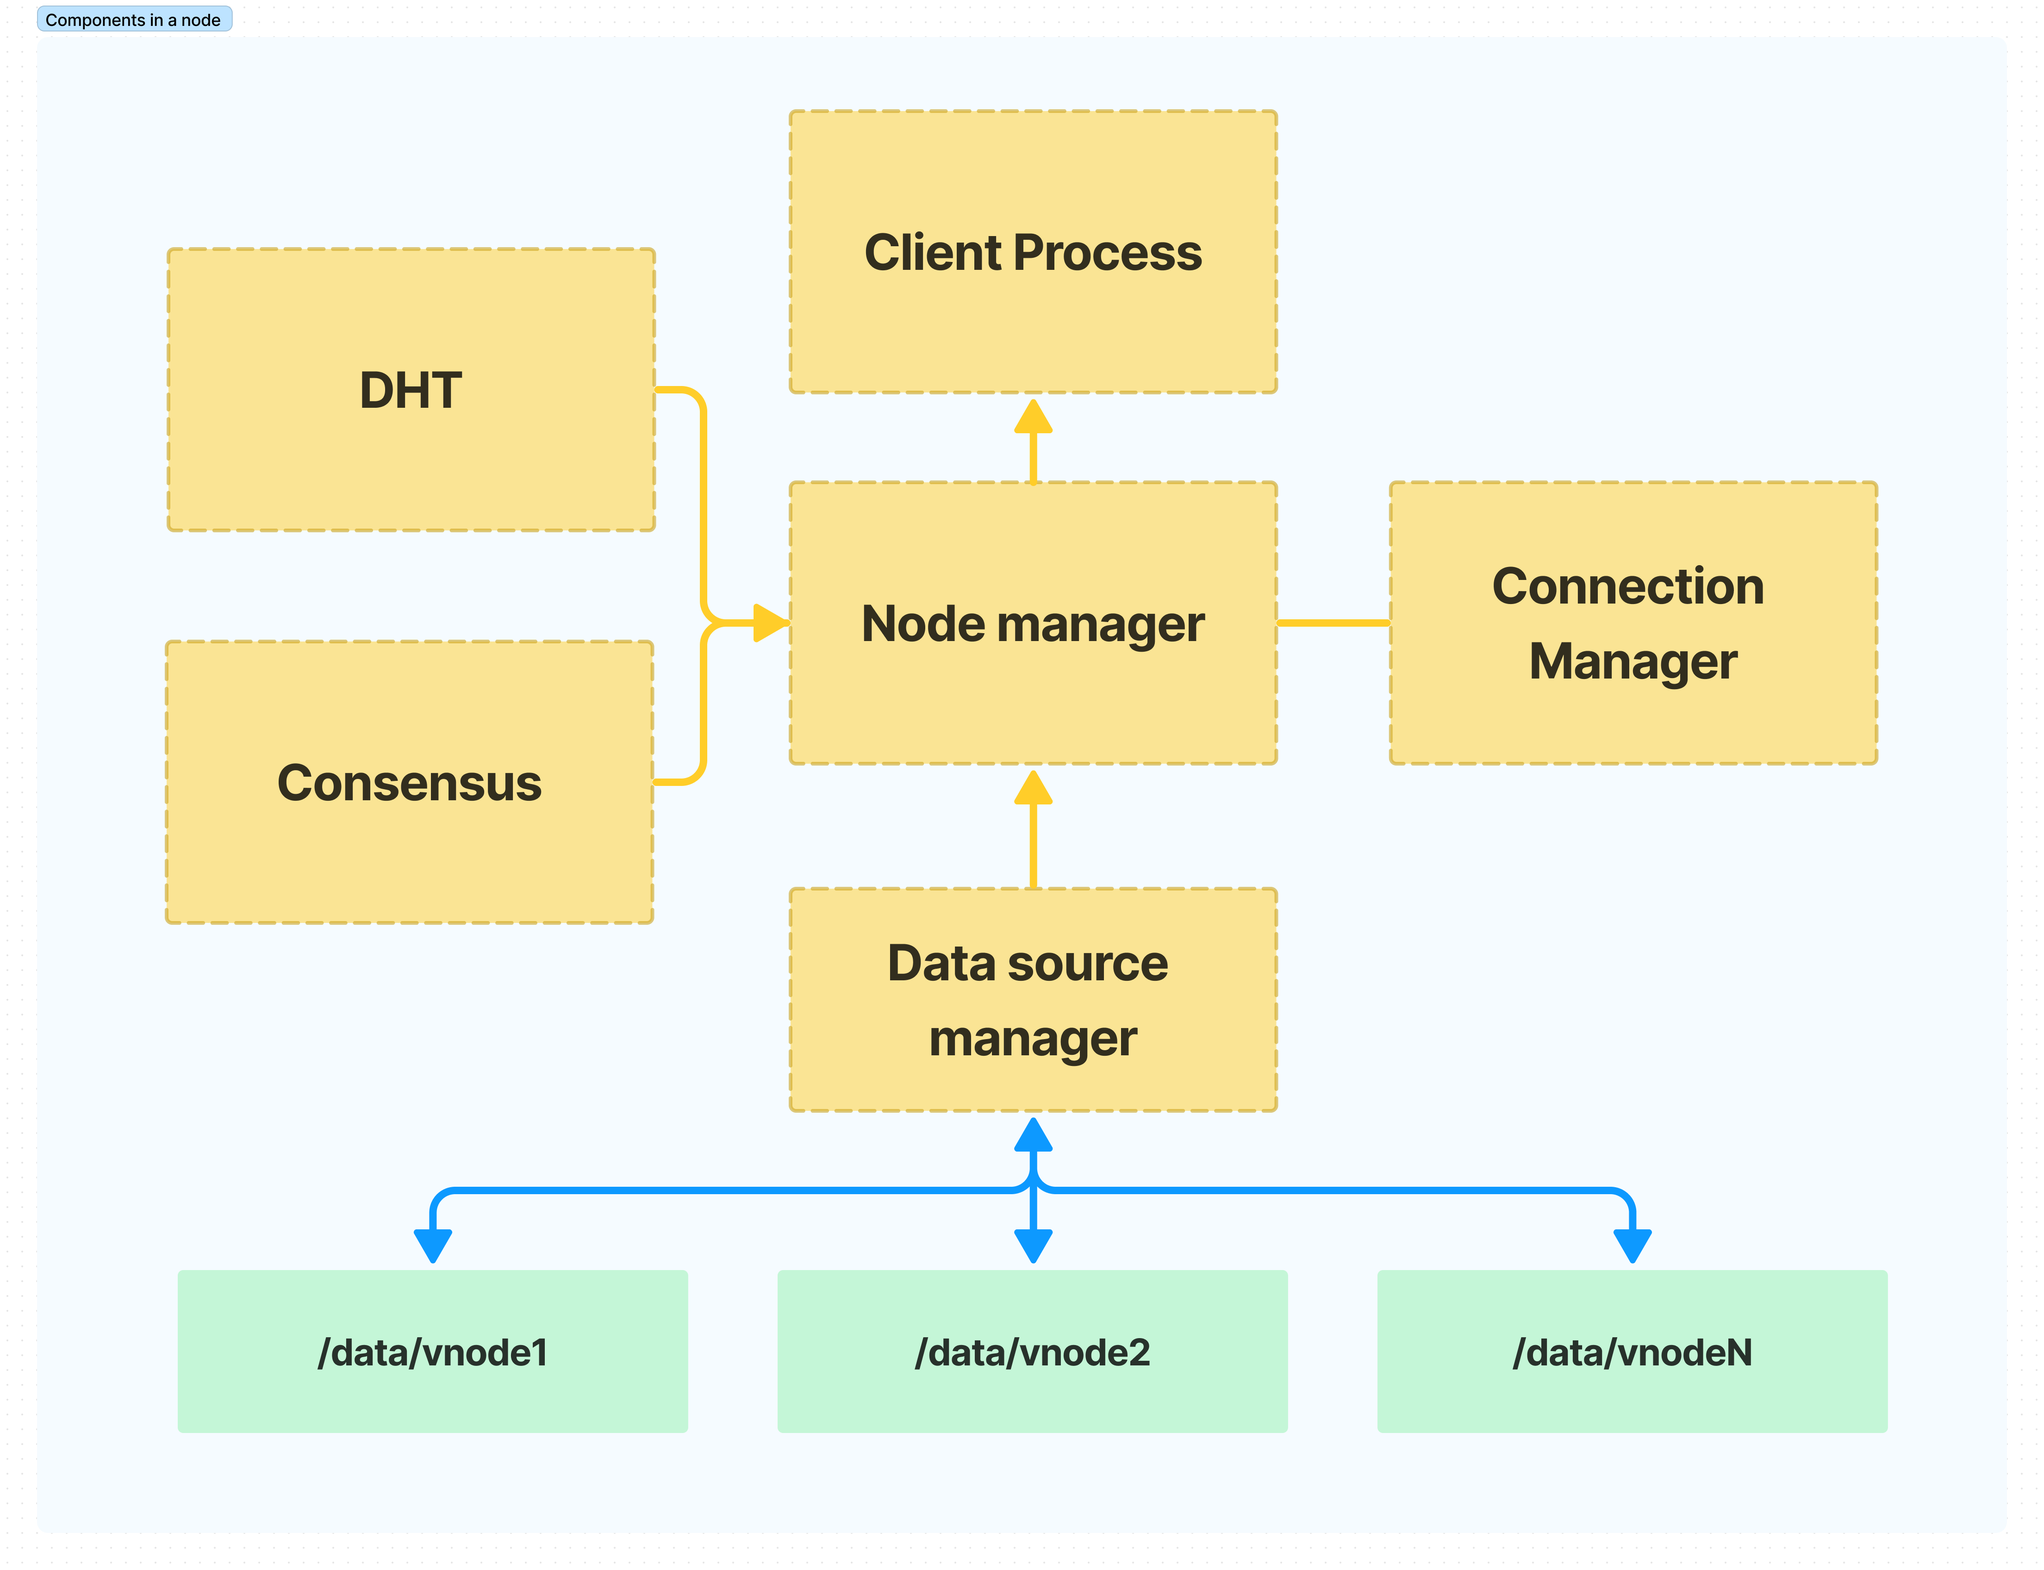
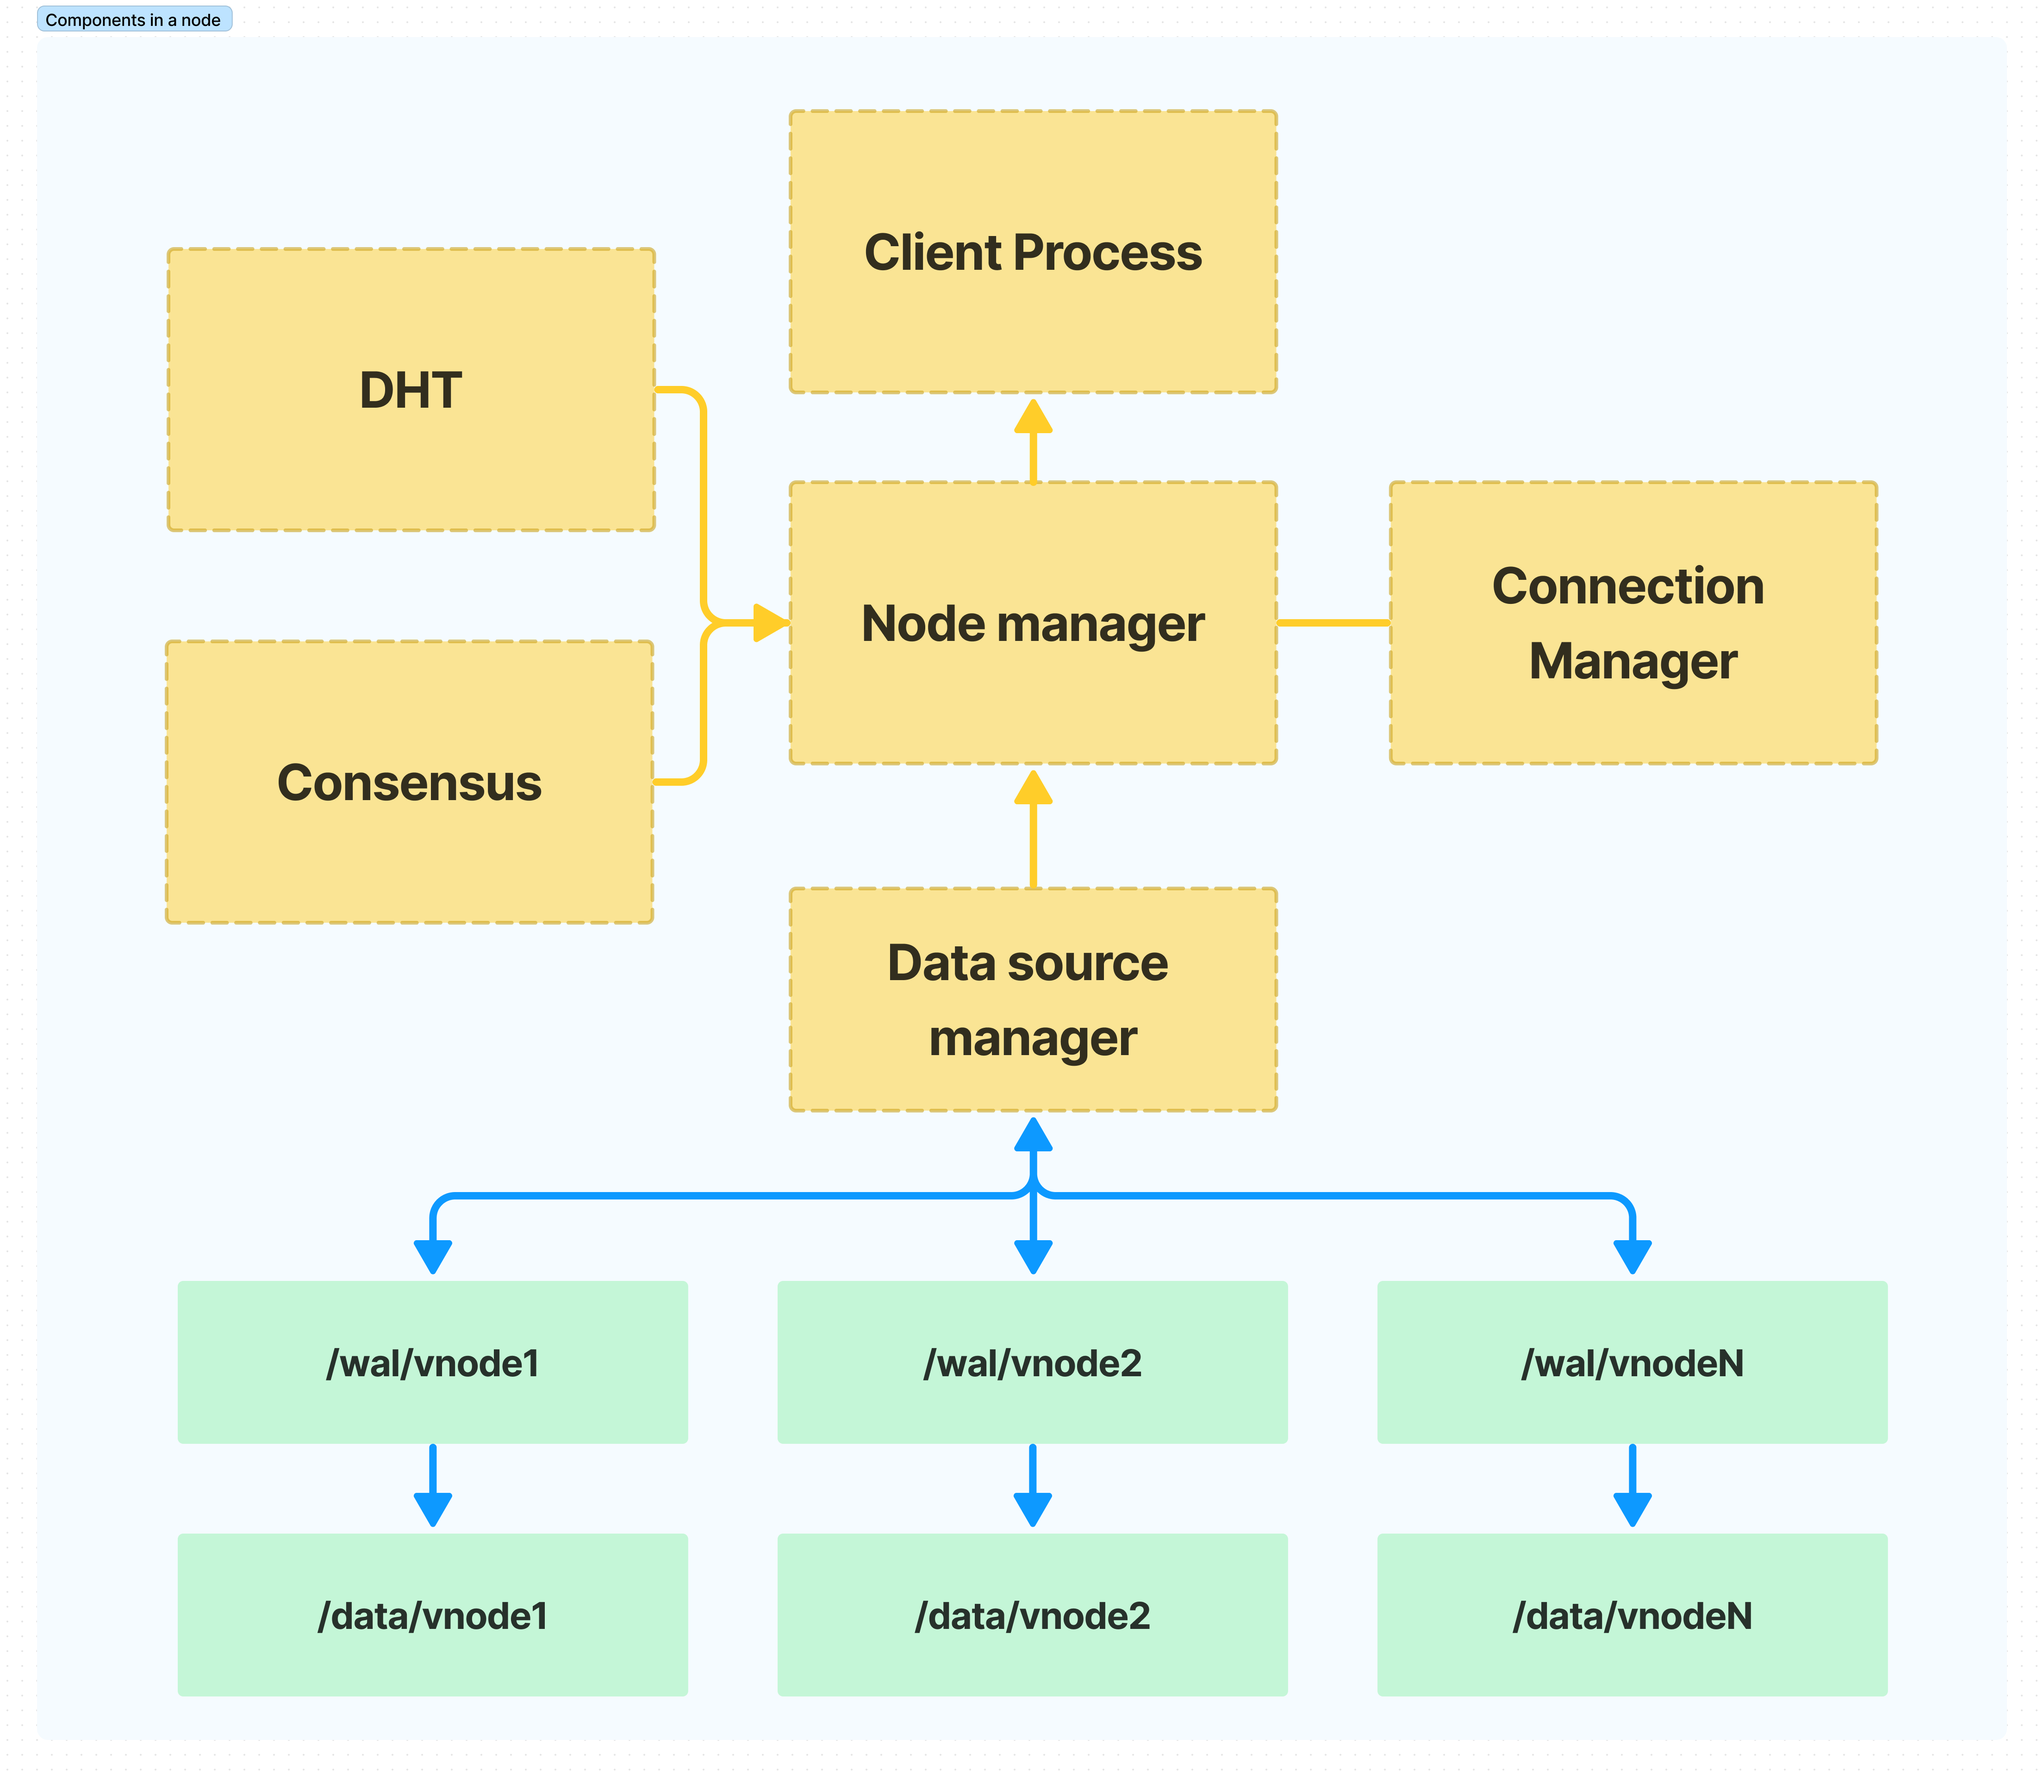
docs: updated components.md with wal info

diff --git a/components/Components.md b/components/Components.md
@@ -6,7 +6,7 @@
 ### [Client process](./client/client.go)
 The client process is responsible for providing abstractions related to clients. The REST and GRPC servers use this to expose data to other nodes and clients.
 
-### [consensus](./consensus/Consensus.md)
+### [Consensus](./consensus/Consensus.md)
 The consensus module is implemented using the RAFT protocol. It is used for handling the configuration requirements of the time machine cluster. We can store and share information such as the DHT structure, route information and other cluster-related information. The RAFT algorithm elects a leader(or a leaseholder) for consensus who will also act as the leader of the time machine cluster.
 
 ### [Distributed hash table](./dht/dht.md)
@@ -14,6 +14,11 @@ The distributed hash table is responsible for maintaining the location of all th
 
 ### [Data store manager](./datastore/datastore.go)
 The datastore manager handles the abstraction layer for the datastore in the node. It implements the same JobStore interface.
+
+### [WAL](./wal/)
+A Write-Ahead Log (WAL) is a sequential record of database changes before they're applied to the main database. It ensures data durability, atomicity, and recovery in case of crashes. Changes are logged in the WAL before being saved to the database, guaranteeing data persistence and consistency. During failures, the WAL is used to replay changes for recovery. This approach optimizes disk writes, enhances performance, and maintains ACID properties (Atomicity, Consistency, Isolation, Durability) for transactions, making WAL a vital component in databases for maintaining data integrity and recoverability.
+
+Data is only written to wal during writes and deletes. 
 
 ### [Data stores](./datastore/)
 These are the storage engines(implemented using BBlot) that hold all the data of a particular vnode. During the migration of the vnode, the entire datastore is copied to the new location.
